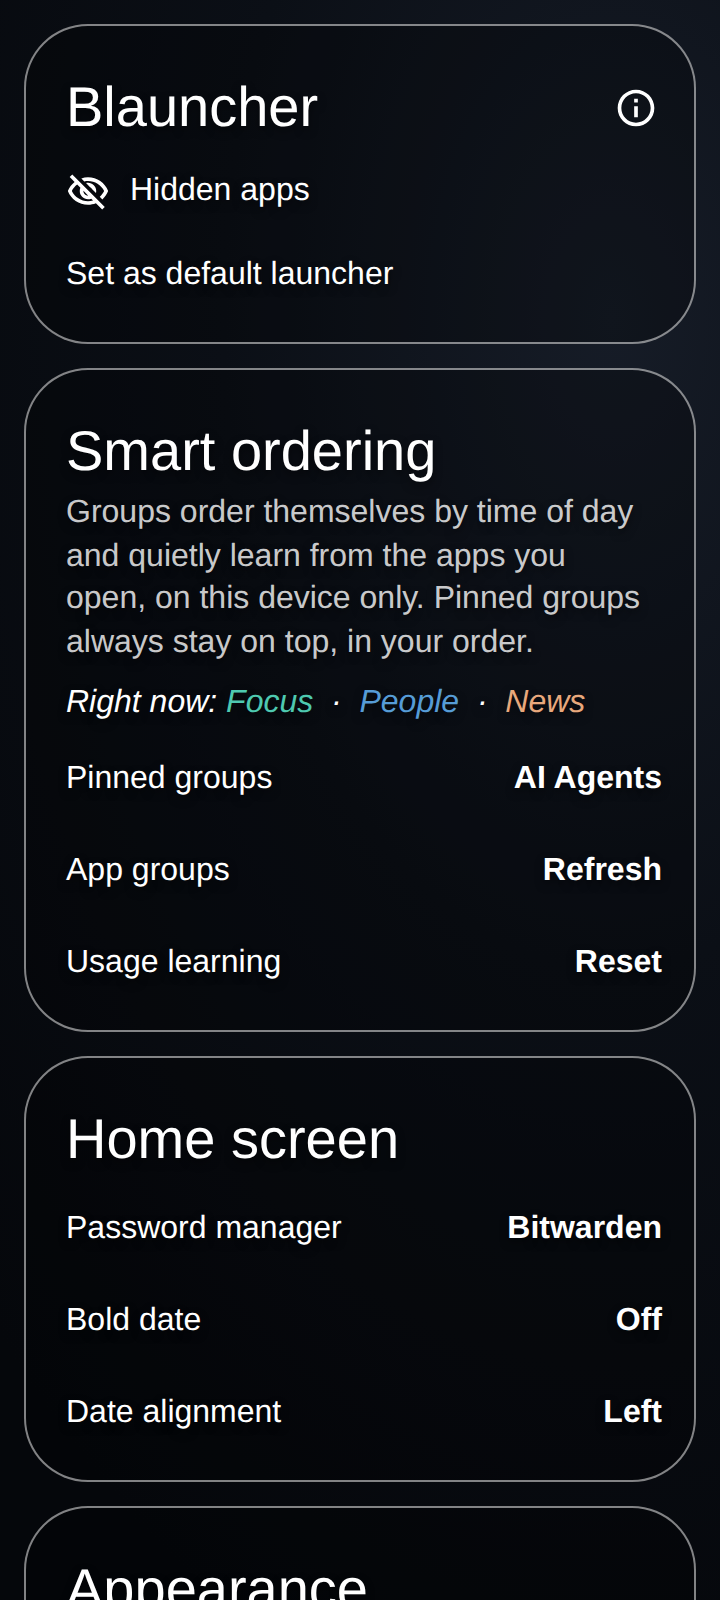
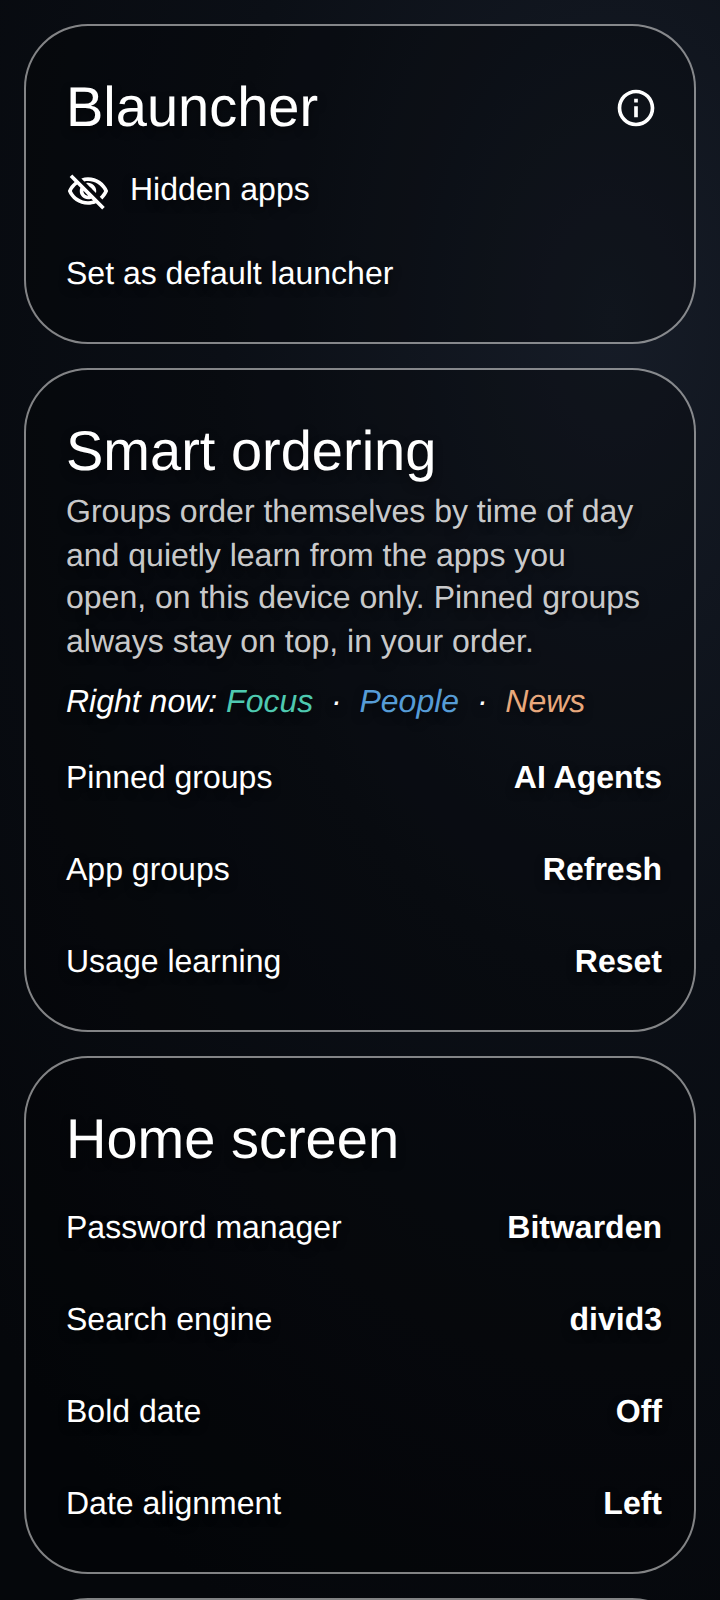
Search engine setting with divid3 default; send button beside the search bar (#12)
Sending a search now opens the results URL for the chosen engine directly
with ACTION_VIEW, so the page loads on the first tap instead of waiting for
a second enter in the browser. The engine is a new Settings > Home screen >
Search engine choice: divid3 (default), DuckDuckGo, Google, Bing, Brave
Search, Kagi, Startpage, Ecosia, Perplexity, ChatGPT, or "Browser default"
for the old web-search intent hand-off. The clear X stays inside the pill
and, while there is text, the key glyph's slot becomes a filled send disc.
Update README, GUIDE, SECURITY.md and the settings render.

Claude-Session: https://claude.ai/code/session_01NMkyL5SPpFgLArSnMYzoh5

diff --git a/app/src/main/java/app/olauncher/ui/HomeFragment.kt b/app/src/main/java/app/olauncher/ui/HomeFragment.kt
@@ -33,7 +33,7 @@ import app.olauncher.helper.openCalendar
 import app.olauncher.helper.openCameraApp
 import app.olauncher.helper.openDialerApp
 import app.olauncher.helper.openSearch
-import app.olauncher.helper.searchWithDefaultBrowser
+import app.olauncher.helper.sendSearch
 import app.olauncher.helper.showToast
 import app.olauncher.listener.OnSwipeTouchListener
 import app.olauncher.listener.ViewSwipeTouchListener
@@ -188,7 +188,7 @@ class HomeFragment : Fragment(), View.OnClickListener, View.OnLongClickListener 
         }
         binding.searchBar.setOnClickListener { focusSearch() }
         binding.searchIcon.setOnClickListener { focusSearch() }
-        binding.searchGo.setOnClickListener { submitSearch() }
+        binding.searchSend.setOnClickListener { submitSearch() }
         binding.searchClear.setOnClickListener {
             binding.searchInput.text?.clear()
             prefs.searchDraft = ""
@@ -196,11 +196,13 @@ class HomeFragment : Fragment(), View.OnClickListener, View.OnLongClickListener 
         }
         binding.searchInput.doAfterTextChanged { text ->
             val hasText = !text.isNullOrBlank()
-            binding.searchGo.isVisible = hasText
             binding.searchClear.isVisible = hasText
+            // While composing, the slot beside the bar becomes the send button.
+            binding.searchSend.isVisible = hasText
+            binding.passwordManager.isVisible = !hasText
         }
         // Enter adds a line, as in any composer. Ctrl+Enter or Shift+Enter sends, for hardware
-        // keyboards; on-screen keyboards use the arrow button.
+        // keyboards; on-screen keyboards use the send button beside the bar.
         binding.searchInput.setOnKeyListener { _, keyCode, event ->
             val enter = keyCode == KeyEvent.KEYCODE_ENTER || keyCode == KeyEvent.KEYCODE_NUMPAD_ENTER
             if (enter && event.action == KeyEvent.ACTION_DOWN && (event.isCtrlPressed || event.isShiftPressed)) {
@@ -220,13 +222,13 @@ class HomeFragment : Fragment(), View.OnClickListener, View.OnLongClickListener 
     }
 
     /**
-     * Hands the composed text to the default browser's search engine. The field is emptied
-     * only after an app accepted the query, so a missing browser never eats the text.
+     * Sends the composed text to the chosen search engine. The field is emptied only after an
+     * app accepted the query, so a missing browser never eats the text.
      */
     private fun submitSearch() {
         val query = binding.searchInput.text?.toString()?.trim().orEmpty()
         if (query.isEmpty()) return
-        if (searchWithDefaultBrowser(requireContext(), query)) {
+        if (sendSearch(requireContext(), prefs.searchEngine, query)) {
             binding.searchInput.text?.clear()
             prefs.searchDraft = ""
             binding.searchInput.hideKeyboard()

diff --git a/app/src/main/java/app/olauncher/helper/Utils.kt b/app/src/main/java/app/olauncher/helper/Utils.kt
@@ -34,6 +34,7 @@ import app.olauncher.R
 import app.olauncher.data.AppModel
 import app.olauncher.data.Constants
 import app.olauncher.data.Prefs
+import app.olauncher.data.SearchEngine
 import kotlinx.coroutines.Dispatchers
 import kotlinx.coroutines.withContext
 import java.text.Collator
@@ -330,20 +331,23 @@ fun defaultBrowserPackage(context: Context): String? {
 }
 
 /**
- * Sends [query] to the default browser's own search engine. Browsers answer
- * [Intent.ACTION_WEB_SEARCH] with whatever engine the user configured inside them, so the
- * launcher never has to know (or store) which engine that is. Falls back to the system-wide
- * web-search handler, then to DuckDuckGo, when the browser does not take search intents.
- * The query is passed as typed, line breaks included, so multi-sentence text arrives intact.
+ * Sends [query] to [engine]. For a URL engine the results page opens straight in the default
+ * browser, so one tap is enough. For [SearchEngine.BROWSER] the raw query goes to the default
+ * browser as [Intent.ACTION_WEB_SEARCH], which uses whatever engine the user configured there,
+ * falling back to the system-wide web-search handler and then to the default engine. The query is
+ * passed as typed, line breaks included, so multi-sentence text arrives intact.
  *
  * @return true once some app accepted the query; false when nothing could take it, so the
  * caller can keep the text instead of discarding it.
  */
-fun searchWithDefaultBrowser(context: Context, query: String): Boolean {
+fun sendSearch(context: Context, engine: SearchEngine, query: String): Boolean {
     val trimmed = query.trim()
     if (trimmed.isEmpty()) return false
-    val webSearch = Intent(Intent.ACTION_WEB_SEARCH).putExtra(SearchManager.QUERY, trimmed)
 
+    val url = engine.searchUrl(trimmed)
+    if (url != null) return openSearchUrl(context, url)
+
+    val webSearch = Intent(Intent.ACTION_WEB_SEARCH).putExtra(SearchManager.QUERY, trimmed)
     val browser = defaultBrowserPackage(context)
     if (browser != null) {
         val targeted = Intent(webSearch).setPackage(browser)
@@ -363,13 +367,15 @@ fun searchWithDefaultBrowser(context: Context, query: String): Boolean {
     } catch (_: ActivityNotFoundException) {
         // fall through to a plain URL
     }
-    return try {
-        context.openUrl(Constants.URL_DUCK_SEARCH + Uri.encode(trimmed))
-        true
-    } catch (e: Exception) {
-        e.printStackTrace()
-        false
-    }
+    return openSearchUrl(context, SearchEngine.DEFAULT.searchUrl(trimmed)!!)
+}
+
+private fun openSearchUrl(context: Context, url: String): Boolean = try {
+    context.openUrl(url)
+    true
+} catch (e: Exception) {
+    e.printStackTrace()
+    false
 }
 
 /** The first installed app from [Constants.KNOWN_PASSWORD_MANAGERS] in the main profile. */

diff --git a/app/src/main/java/app/olauncher/ui/SettingsFragment.kt b/app/src/main/java/app/olauncher/ui/SettingsFragment.kt
@@ -28,6 +28,7 @@ import app.olauncher.R
 import app.olauncher.data.AppCategory
 import app.olauncher.data.Constants
 import app.olauncher.data.Prefs
+import app.olauncher.data.SearchEngine
 import app.olauncher.databinding.FragmentSettingsBinding
 import app.olauncher.helper.SmartOrder
 import app.olauncher.helper.getColorFromAttr
@@ -70,6 +71,7 @@ class SettingsFragment : Fragment(), View.OnClickListener, View.OnLongClickListe
         populateAlignment()
         populateDateBold()
         populatePasswordApp()
+        populateSearchEngine()
         populateSmartOrdering()
         populateSwipeApps()
         populateSwipeDownAction()
@@ -96,6 +98,7 @@ class SettingsFragment : Fragment(), View.OnClickListener, View.OnLongClickListe
             // R.id.homeButtonRecents -> toggleHomeButtonRecents()
             R.id.autoShowKeyboard -> toggleKeyboardText()
             R.id.passwordApp -> showAppList(Constants.FLAG_SET_PASSWORD_APP)
+            R.id.searchEngine -> showSearchEngineChooser()
             R.id.alignment -> binding.alignmentSelectLayout.visibility = View.VISIBLE
             R.id.alignmentLeft -> viewModel.updateHomeAlignment(Gravity.START)
             R.id.alignmentCenter -> viewModel.updateHomeAlignment(Gravity.CENTER)
@@ -149,6 +152,7 @@ class SettingsFragment : Fragment(), View.OnClickListener, View.OnLongClickListe
         // Home button for recents feature disabled
         // binding.homeButtonRecents.setOnClickListener(this)
         binding.passwordApp.setOnClickListener(this)
+        binding.searchEngine.setOnClickListener(this)
         binding.alignment.setOnClickListener(this)
         binding.alignmentLeft.setOnClickListener(this)
         binding.alignmentCenter.setOnClickListener(this)
@@ -237,6 +241,24 @@ class SettingsFragment : Fragment(), View.OnClickListener, View.OnLongClickListe
         prefs.dateBold = !prefs.dateBold
         populateDateBold()
         viewModel.refreshHome()
+    }
+
+    private fun populateSearchEngine() {
+        binding.searchEngine.text = prefs.searchEngine.displayName
+    }
+
+    private fun showSearchEngineChooser() {
+        val engines = SearchEngine.entries
+        val checked = engines.indexOf(prefs.searchEngine)
+        AlertDialog.Builder(requireContext())
+            .setTitle(R.string.search_engine)
+            .setSingleChoiceItems(engines.map { it.displayName }.toTypedArray(), checked) { dialog, which ->
+                prefs.searchEngine = engines[which]
+                populateSearchEngine()
+                dialog.dismiss()
+            }
+            .setNegativeButton(R.string.close, null)
+            .show()
     }
 
     /** Names the app behind the home-screen password shortcut, or invites picking one. */

diff --git a/app/src/main/java/app/olauncher/data/SearchEngine.kt b/app/src/main/java/app/olauncher/data/SearchEngine.kt
@@ -1,0 +1,34 @@
+package app.olauncher.data
+
+import android.net.Uri
+
+/**
+ * Where the home-screen search bar sends its text. Every engine but [BROWSER] is a results
+ * URL the launcher opens in the default browser, so the page loads on the first tap.
+ * [BROWSER] instead hands the raw query to the browser as a web-search intent and lets the
+ * browser pick the engine; some browsers only fill their address bar with it and wait for a
+ * second enter, which is why it is not the default.
+ */
+enum class SearchEngine(val displayName: String, val urlTemplate: String?) {
+    DIVID3("divid3", "https://divid3.com/?q="),
+    DUCKDUCKGO("DuckDuckGo", "https://duckduckgo.com/?q="),
+    GOOGLE("Google", "https://www.google.com/search?q="),
+    BING("Bing", "https://www.bing.com/search?q="),
+    BRAVE("Brave Search", "https://search.brave.com/search?q="),
+    KAGI("Kagi", "https://kagi.com/search?q="),
+    STARTPAGE("Startpage", "https://www.startpage.com/sp/search?query="),
+    ECOSIA("Ecosia", "https://www.ecosia.org/search?q="),
+    PERPLEXITY("Perplexity", "https://www.perplexity.ai/search?q="),
+    CHATGPT("ChatGPT", "https://chatgpt.com/?q="),
+    BROWSER("Browser default", null);
+
+    /** The results page for [query], or null for [BROWSER], which has no URL of its own. */
+    fun searchUrl(query: String): String? = urlTemplate?.let { it + Uri.encode(query) }
+
+    companion object {
+        val DEFAULT = DIVID3
+
+        fun fromName(name: String?): SearchEngine =
+            entries.firstOrNull { it.name == name } ?: DEFAULT
+    }
+}

diff --git a/app/src/main/java/app/olauncher/ui/AppDrawerFragment.kt b/app/src/main/java/app/olauncher/ui/AppDrawerFragment.kt
@@ -28,6 +28,7 @@ import app.olauncher.data.AppModel
 import app.olauncher.data.AppCategory
 import app.olauncher.data.Constants
 import app.olauncher.data.Prefs
+import app.olauncher.data.SearchEngine
 import app.olauncher.databinding.DialogAppGroupsBinding
 import app.olauncher.databinding.FragmentAppDrawerBinding
 import app.olauncher.databinding.ItemGroupChoiceBinding
@@ -106,7 +107,7 @@ class AppDrawerFragment : Fragment() {
         binding.search.setOnQueryTextListener(object : SearchView.OnQueryTextListener {
             override fun onQueryTextSubmit(query: String?): Boolean {
                 if (query?.startsWith("!") == true)
-                    requireContext().openUrl(Constants.URL_DUCK_SEARCH + query.replace(" ", "%20"))
+                    requireContext().openUrl(SearchEngine.DUCKDUCKGO.searchUrl(query.trim()).orEmpty())
                 else if (adapter.itemCount == 0)
                     requireContext().openSearch(query?.trim())
                 else

diff --git a/app/src/main/java/app/olauncher/data/Prefs.kt b/app/src/main/java/app/olauncher/data/Prefs.kt
@@ -13,6 +13,7 @@ class Prefs(context: Context) {
     private val FIRST_SETTINGS_OPEN = "FIRST_SETTINGS_OPEN"
     private val USER_STATE = "USER_STATE"
     private val SEARCH_DRAFT = "SEARCH_DRAFT"
+    private val SEARCH_ENGINE = "SEARCH_ENGINE"
     private val AUTO_SHOW_KEYBOARD = "AUTO_SHOW_KEYBOARD"
     private val HOME_ALIGNMENT = "HOME_ALIGNMENT"
     private val APP_LABEL_ALIGNMENT = "APP_LABEL_ALIGNMENT"
@@ -140,6 +141,11 @@ class Prefs(context: Context) {
         set(value) = prefs.edit {
             if (value.isBlank()) remove(SEARCH_DRAFT) else putString(SEARCH_DRAFT, value)
         }
+
+    /** Where the home-screen search bar sends its text. */
+    var searchEngine: SearchEngine
+        get() = SearchEngine.fromName(prefs.getString(SEARCH_ENGINE, null))
+        set(value) = prefs.edit { putString(SEARCH_ENGINE, value.name) }
 
     var homeAlignment: Int
         get() = prefs.getInt(HOME_ALIGNMENT, Gravity.START)

diff --git a/app/src/main/java/app/olauncher/data/Constants.kt b/app/src/main/java/app/olauncher/data/Constants.kt
@@ -56,6 +56,5 @@ object Constants {
     const val MIN_ANIM_REFRESH_RATE = 30f
 
     const val URL_OLAUNCHER_GITHUB = "https://github.com/bradflaugher/Blauncher"
-    const val URL_DUCK_SEARCH = "https://duck.co/?q="
 
 }

diff --git a/GUIDE.md b/GUIDE.md
@@ -31,13 +31,20 @@ everything else is gestures.
 
 - **Search bar** — tap it and type. It is a small composer, not a one-line
   field: enter starts a new line, the box grows to a few lines and then
-  scrolls, and there is no length limit, so whole paragraphs are fine. Send
-  with the **arrow** at the end of the bar (or Ctrl+Enter / Shift+Enter on a
-  hardware keyboard). The text goes to your **default browser**, which
-  searches with the engine you chose inside that browser (Chrome, Firefox,
-  Brave, Edge, and most others accept searches this way). If the browser
-  cannot take a search, the system web-search handler gets it instead, and
-  failing that DuckDuckGo opens in the browser.
+  scrolls, and there is no length limit, so whole paragraphs are fine. While
+  there is text, the key glyph beside the bar becomes a filled **send**
+  button; tap it (or Ctrl+Enter / Shift+Enter on a hardware keyboard) and
+  the results page opens in your default browser in one step. An **×** at
+  the end of the bar clears the text.
+  - The results come from the **search engine** picked in Settings → Home
+    screen: divid3 (a private search router) by default, or DuckDuckGo,
+    Google, Bing, Brave Search, Kagi, Startpage, Ecosia, Perplexity, or
+    ChatGPT. The launcher builds the
+    results URL itself and opens it, so nothing waits for a second enter.
+  - **Browser default** is also there: it hands the raw text to the browser
+    as a web search and lets the browser choose the engine. Some browsers
+    only put the text in their address bar and wait for enter, which is
+    why it is not the default. Failing everything, DuckDuckGo opens.
   - Unsent text is a **draft**: it stays if you tap elsewhere, open the
     drawer or settings, switch apps to copy something, rotate, or the
     launcher restarts. Only a successful send or the **×** button empties
@@ -110,8 +117,9 @@ Long-press anywhere on the home screen to get here.
 - **Blauncher card** — hidden apps, set/change default launcher, app info.
 - **Smart ordering** — see above.
 - **Home screen** — **Password manager** (the app the key glyph opens),
-  **Bold date**, and the date's alignment (long-press *Date alignment* to also
-  apply it to the app drawer).
+  **Search engine** (where the search bar sends its text), **Bold date**,
+  and the date's alignment (long-press *Date alignment* to also apply it to
+  the app drawer).
 - **Appearance** — theme (long-press *Theme* for the System option) and
   text size.
 - **Gestures** — the swipe-left and swipe-right apps (long-press either row

diff --git a/SECURITY.md b/SECURITY.md
@@ -29,10 +29,12 @@ sha256sum -c Blauncher.apk.sha256
   never used.
 - The home-screen search bar keeps unsent text as a draft in the same local
   preferences (excluded from backups) until it is sent or cleared. Sending
-  hands the text to the default browser through an `ACTION_WEB_SEARCH`
-  intent; from that point it is the browser's data, subject to that
-  browser's own search-engine and privacy settings. The launcher never
-  performs the search itself.
+  builds the results URL for the search engine chosen in Settings and opens
+  it in the default browser with an `ACTION_VIEW` intent, or, for the
+  "Browser default" option, hands the raw text over as an
+  `ACTION_WEB_SEARCH` intent. Either way the launcher itself makes no
+  network request; from the hand-off on, the text is the browser's and the
+  chosen engine's data, subject to their privacy terms.
 - CI actions are pinned to commit SHAs, the Gradle distribution is checksum
   pinned, Dependabot keeps dependencies and action pins current, and CodeQL
   scans both the Kotlin sources and the workflows.

diff --git a/README.md b/README.md
@@ -21,10 +21,11 @@ colors rather than device captures.
 
 - **Near-empty home.** The date at the top, and along the bottom a search bar
   beside a key glyph that opens your password manager, with the notification
-  bar always on. The
-  search bar hands your query to the default browser, which runs it through
-  whatever search engine you set there; the launcher never picks or stores
-  an engine. The password shortcut binds itself to an installed password
+  bar always on. The search bar is a small composer; sending opens the
+  results page for your chosen engine (divid3 by default, or DuckDuckGo,
+  Google, Bing, Brave, Kagi, Startpage, Ecosia, Perplexity, ChatGPT) in the default
+  browser in one tap, or hands the text to the browser's own engine if you
+  prefer. The password shortcut binds itself to an installed password
   manager (Bitwarden, 1Password, Proton Pass, KeePassDX, and others) and can
   be pointed at any app. Gestures do the rest: swipe up for the drawer, swipe
   down for notifications or search, swipe left/right for two chosen apps,
